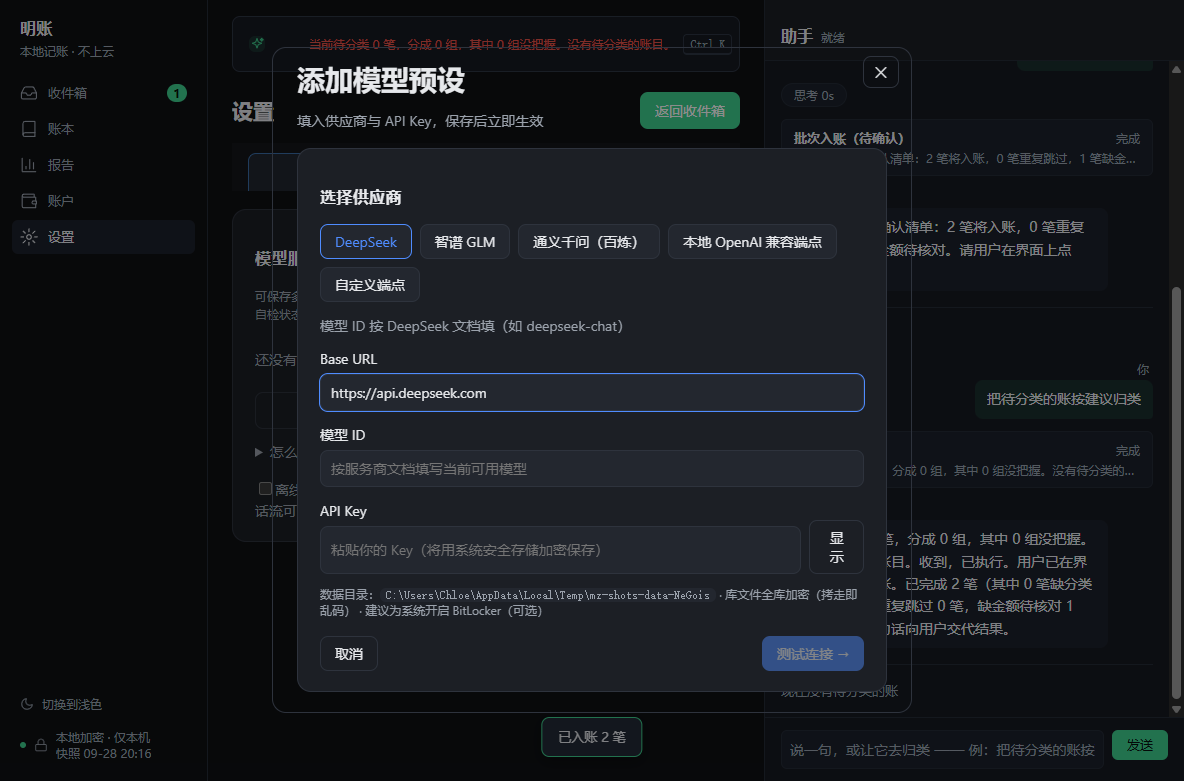
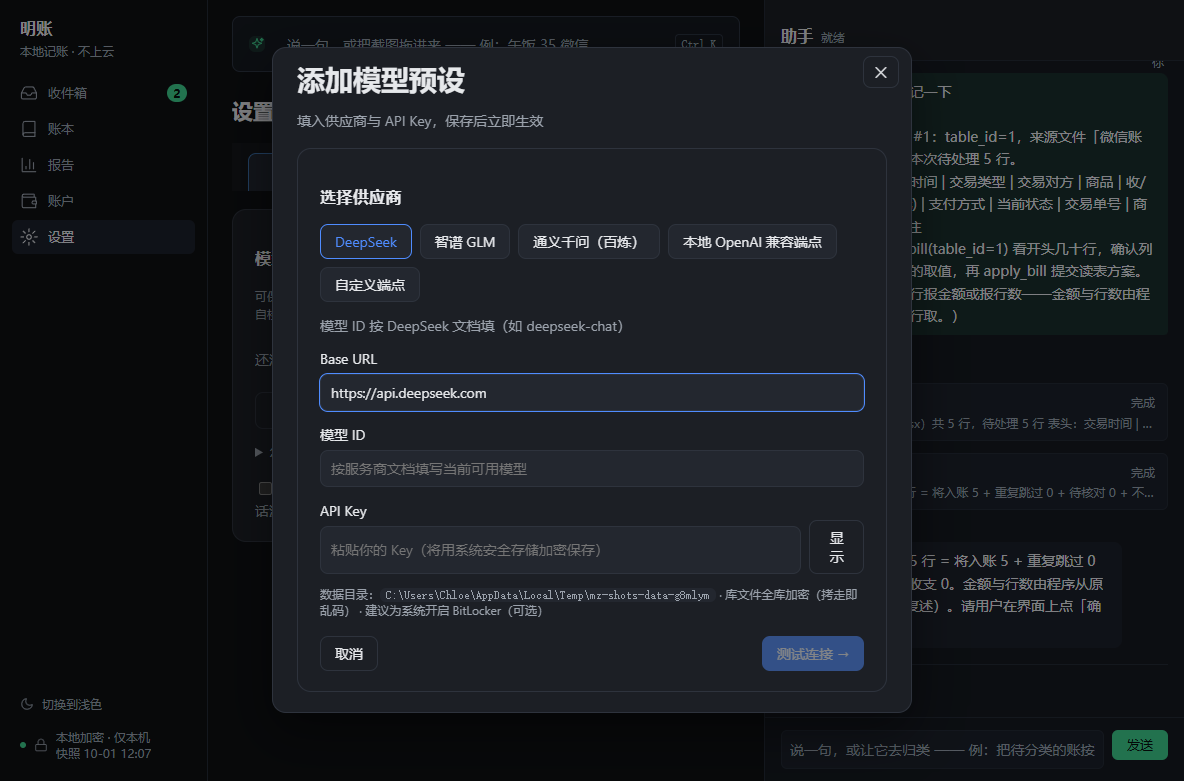
fix(设置): 模型向导弹窗卡片背景透明——背景变量在壳作用域外解析不到，改用主题 token 并补投影
向导覆盖层是 <AppShell> 的兄弟节点、不在 .mz-shell 作用域内，而 --bg-0 定义在 .mz-shell 上，
background: var(--bg-0) 解析失败后回落成 transparent（实测 rgba(0,0,0,0)），
背后的遮罩与设置页内容直接透出来，看着像一层没有底色的浮灰框。

- .wizard-card 背景改用 :root 上、主题感知的 --panel（深 #1c1f25 / 浅 #ffffff），与卡片内层 .card 同源
- 补 box-shadow，让卡片在遮罩上真的浮起来
- 新增 UI 回归用例「向导⑥ 卡片有实底与投影」（改前真红：alpha=0；改后绿）
- 刷新 README 的向导截图，并留一张四格前后对照图

closes #11

diff --git a/tests/ui/shell-smoke.spec.ts b/tests/ui/shell-smoke.spec.ts
@@ -1885,6 +1885,29 @@ test.describe('模型向导覆盖层（T0928 §1）', () => {
       await fake.close()
     }
   })
+
+  test('向导⑥ 卡片有实底与投影：不是「透明外框」（背景变量作用域失效回归）', async () => {
+    const { app: tApp, page: tPage } = await launchIsolated({})
+    try {
+      await tPage.getByTestId('nav-settings').click()
+      await tPage.getByTestId('settings-route').waitFor()
+      await tPage.getByRole('button', { name: '＋ 新增预设' }).click()
+      await expect(tPage.getByTestId('wizard-card')).toBeVisible({ timeout: 10_000 })
+      const style = await tPage.evaluate(() => {
+        const el = document.querySelector('.wizard-card') as HTMLElement
+        const cs = getComputedStyle(el)
+        return { bg: cs.backgroundColor, shadow: cs.boxShadow, inShell: !!el.closest('.mz-shell') }
+      })
+      const m = /rgba?\((\d+),\s*(\d+),\s*(\d+)(?:,\s*([\d.]+))?\)/.exec(style.bg)
+      expect(m, `卡片背景不是实色：${style.bg}`).not.toBeNull()
+      const alpha = m && m[4] !== undefined ? Number(m[4]) : 1
+      expect(alpha, `卡片背景是半透明/透明（${style.bg}）——变量作用域又失效了？`).toBe(1)
+      expect(style.shadow, '卡片没有投影，会显得像贴上去的').not.toBe('none')
+      console.log(`[实测] wizard-card 背景=${style.bg}｜投影=${style.shadow.slice(0, 40)}｜在壳内=${style.inShell}`)
+    } finally {
+      await tApp.close()
+    }
+  })
 })
 
 // ---------------------------------------------------------------------------

diff --git a/src/renderer/src/styles.css b/src/renderer/src/styles.css
@@ -210,7 +210,12 @@ code {
   max-width: 640px;
   max-height: 100%;
   overflow-y: auto;
-  background: var(--bg-0);
+  /* 背景不能用 var(--bg-0)：tokens.css 把它定义在 .mz-shell 作用域上，而向导是它的兄弟节点
+     （不在壳内）→ 变量失效 → 背景被当成透明（实测 rgba(0,0,0,0)），看着像一层假外框。
+     用 :root 上的主题感知 token --panel（深 #1c1f25 / 浅 #ffffff），与内层卡片同源。 */
+  background: var(--panel);
+  /* 有投影才有“浮起来”的层次，否则像贴在遮罩上 */
+  box-shadow: 0 18px 48px rgba(0, 0, 0, 0.45);
   border: 1px solid var(--border);
   border-radius: 14px;
   padding: 12px 24px 20px;
